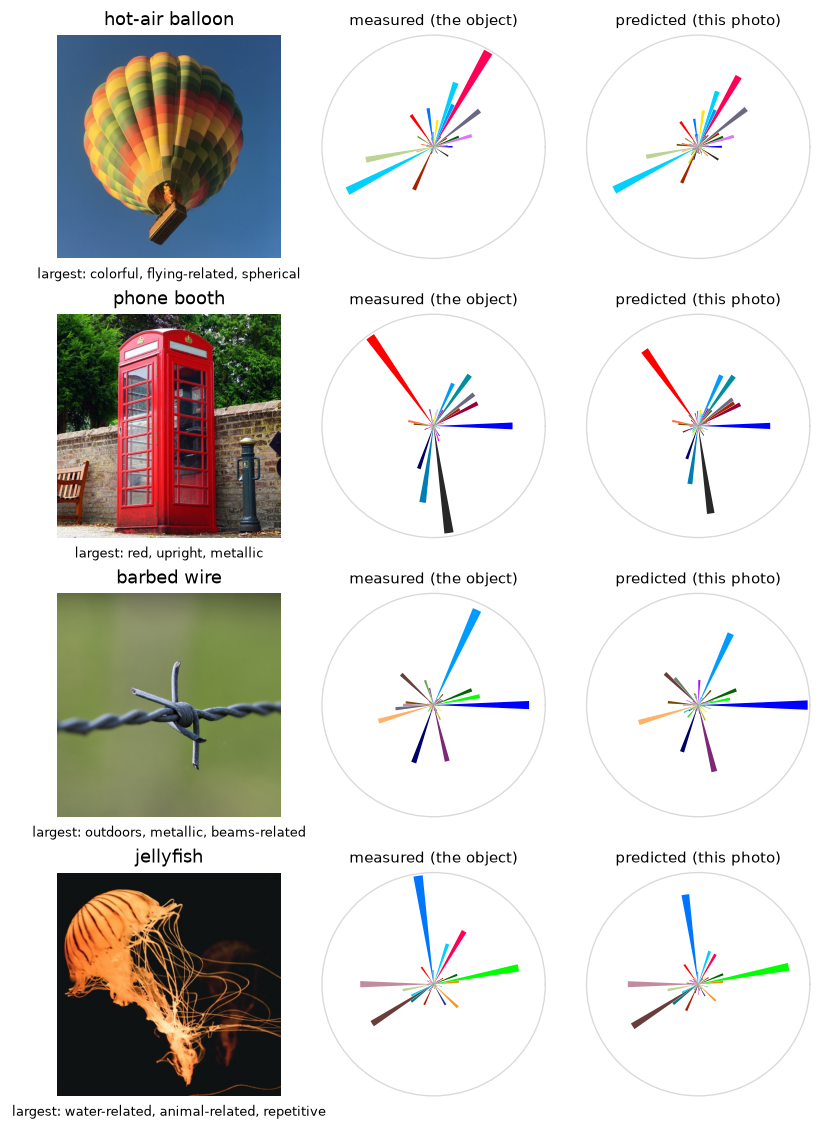
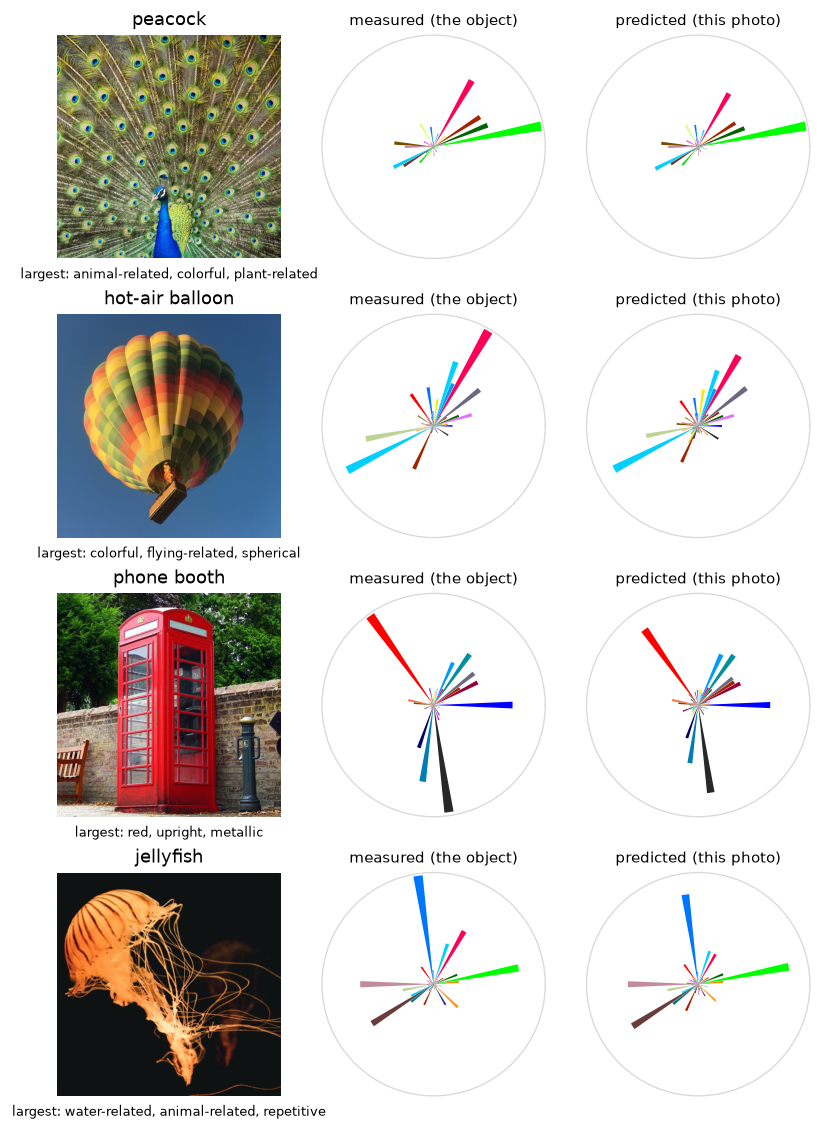
README figures: peacock instead of barbed wire

diff --git a/docs/images/make_readme_figures.py b/docs/images/make_readme_figures.py
@@ -15,8 +15,8 @@ dimensions and the similarity of new images.
         similarity
     rose_plots.png: the measured dimensions of four objects (the SPoSE
         embedding of the object) and the dimensions predicted for a CC0
-        photo of the same object (THINGSplus, docs/images/examples and
-        tests/fixtures/images), as rose plots
+        photo of the same object (THINGSplus, docs/images/examples), as
+        rose plots
 
 The colors of the dimensions are those of Hebart et al. (2023)
 (training/data/colors_66d.txt). The 48nonref features come from
@@ -58,9 +58,9 @@ from build_models import CLOSE_PAIRS, KERNEL, fit_kernel, fit_model
 DATA = os.path.join(REPO, "training", "data")
 MODEL = "alignet_siglip2b_66d_kernel"
 # the photos of the rose plots (CC0 photos of THINGSplus) and their objects
-EXAMPLES = [("hot-air balloon", "hot-air_balloon", os.path.join(HERE, "examples", "hot-air_balloon.jpg")),
+EXAMPLES = [("peacock", "peacock", os.path.join(HERE, "examples", "peacock.jpg")),
+            ("hot-air balloon", "hot-air_balloon", os.path.join(HERE, "examples", "hot-air_balloon.jpg")),
             ("phone booth", "phone_booth", os.path.join(HERE, "examples", "phone_booth.jpg")),
-            ("barbed wire", "barbed_wire", os.path.join(REPO, "tests", "fixtures", "images", "barbed_wire.jpg")),
             ("jellyfish", "jellyfish", os.path.join(HERE, "examples", "jellyfish.jpg"))]
 
 
@@ -189,7 +189,8 @@ def plot_roses(names, images, measured, predicted, colors, labels, fname):
     import matplotlib.pyplot as plt
     from PIL import Image
     n = len(names)
-    fig, axes = plt.subplots(n, 3, figsize=(8.4, 2.87 * n), gridspec_kw=dict(wspace=0.05, hspace=0.25))
+    fig, axes = plt.subplots(n, 3, figsize=(8.4, 2.87 * n), gridspec_kw=dict(wspace=0.05, hspace=0.25),
+                             squeeze=False)
     for i, (name, image, m, p) in enumerate(zip(names, images, measured, predicted)):
         vmax = max(m.max(), p.max()) * 1.02
         ax = axes[i, 0]
